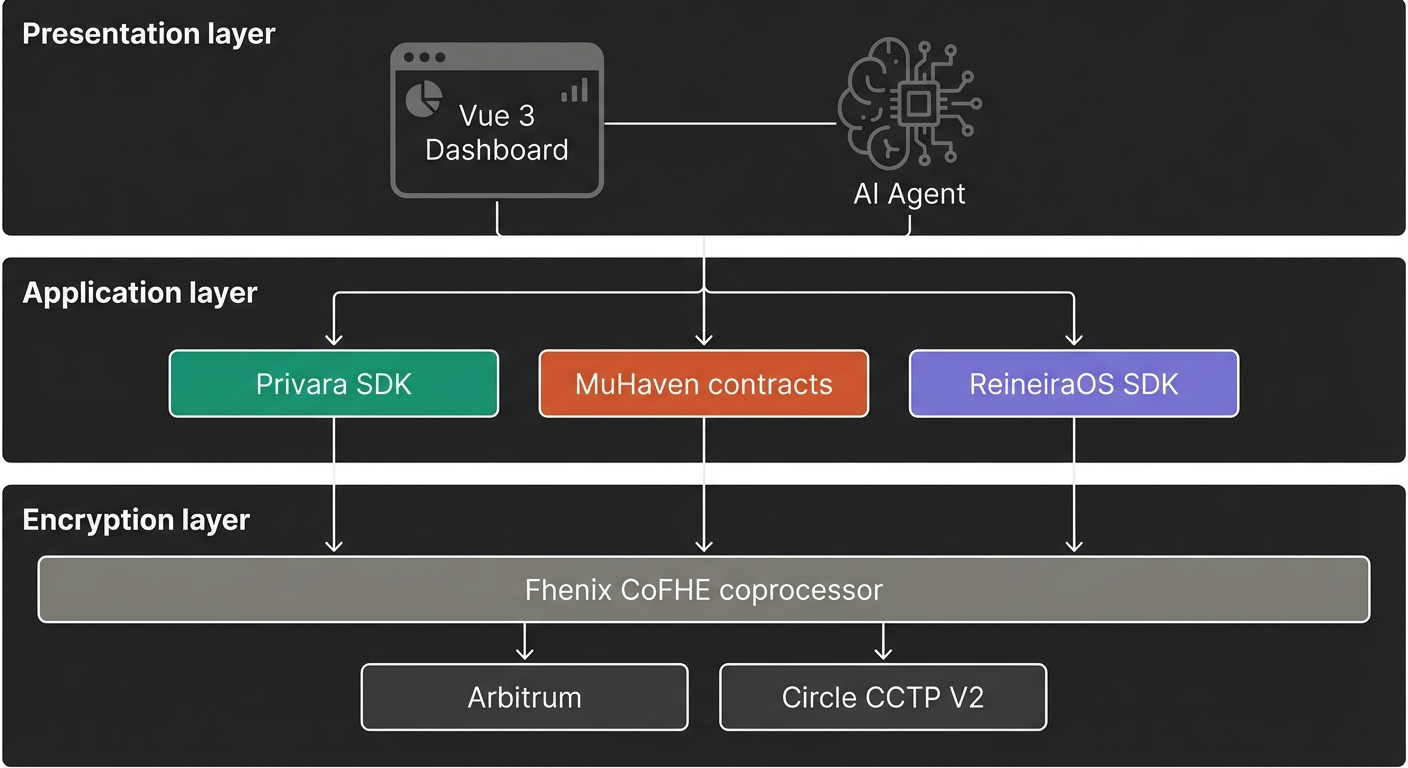
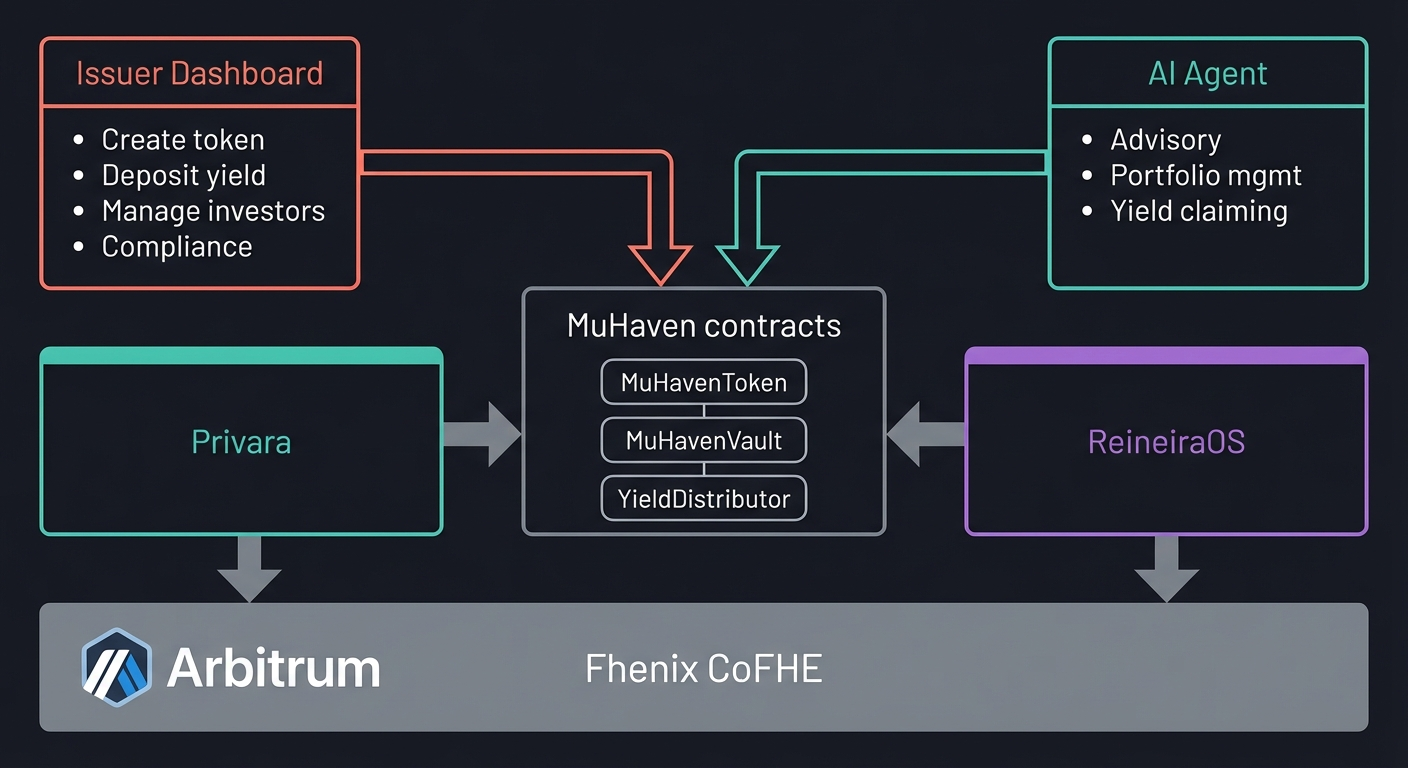
update docs

diff --git a/docs/ISSUER_MODEL.md b/docs/ISSUER_MODEL.md
@@ -32,11 +32,11 @@ External RWA token              MuHaven
        │  Investor deposits
        │  standard ERC-20
        ▼
-┌──────────────┐         ┌──────────────────┐
+┌───────────────┐         ┌──────────────────┐
 │ Lock in vault │────────>│ Mint fhERC-20    │
 │ (custodied)   │         │ (encrypted       │
 │               │         │  balance)        │
-└──────────────┘         └──────────────────┘
+└───────────────┘         └──────────────────┘
        │
        │  1:1 backing
        │  Investor can unwrap anytime
@@ -65,7 +65,7 @@ RWA Issuer                    MuHaven
        │  Creates token via
        │  issuer dashboard
        ▼
-┌──────────────────────┐
+┌───────────────────────┐
 │ Configure token:      │
 │ - Name, symbol        │
 │ - Asset class         │
@@ -73,7 +73,7 @@ RWA Issuer                    MuHaven
 │ - KYC tier required   │
 │ - Max investors       │
 │ - Jurisdiction rules  │
-└──────────┬───────────┘
+└──────────┬────────────┘
            │
            ▼
 ┌──────────────────────┐
@@ -261,18 +261,6 @@ For the hackathon, we need to demonstrate the two-sided flow end-to-end:
 | `MuHavenVault.sol` (new) | `wrap()`, `unwrap()` | Lock ERC-20, mint fhERC-20 (wrapper model) |
 | `YieldDistributor.sol` (new) | `distributeYield()` | Read all holder balances, create proportional escrows |
 
-### Wave plan impact
-
-| Wave | Addition | Hours |
-|------|---------|-------|
-| Wave 2 | Add `onlyIssuer` + `onlyMinter` modifiers, MINTER_ROLE, `mint()` to MuHavenToken | +2h |
-| Wave 2 | Create `MuHavenVault.sol` (simple wrap/unwrap) | +4h |
-| Wave 3 | Build `YieldDistributor.sol` with ReineiraOS integration | +6h |
-| Wave 3 | Build 4 issuer dashboard pages in Vue 3 | +12h |
-| Wave 5 | Include issuer flow in demo video | +1h |
-
-**Total additional: ~25 hours** — fits within Wave 3's 120h budget with some reallocation.
-
 ---
 
 ## Revenue model (for judges)
@@ -292,30 +280,30 @@ All fees are encrypted — competitors can't reverse-engineer MuHaven's revenue 
 ## How this fits the existing architecture
 
 ```
-┌──────────────────────────────────────────────────────────────┐
-│  ISSUER SIDE (new)                    INVESTOR SIDE (existing)│
+┌────────────────────────────────────────────────────────────────┐
+│  ISSUER SIDE (new)                    INVESTOR SIDE (existing) │
 │                                                                │
-│  ┌─────────────────┐                 ┌────────────────────┐  │
-│  │ Issuer Dashboard │                 │ AI Agent + Chat     │  │
-│  │ - Create token   │                 │ - Advisory          │  │
-│  │ - Deposit yield  │                 │ - Portfolio mgmt    │  │
-│  │ - Manage investors│                │ - Yield claiming    │  │
-│  └────────┬────────┘                 └─────────┬──────────┘  │
-│           │                                     │              │
-│           ▼                                     ▼              │
-│  ┌──────────────────────────────────────────────────────────┐│
-│  │                   MuHaven Contracts                       ││
-│  │                                                            ││
-│  │  MuHavenToken (fhERC-20)  ←──── shared ────→  IKYCGate  ││
-│  │  MuHavenVault (wrap/unwrap)                    YieldGate  ││
-│  │  YieldDistributor (proportional escrow creation)          ││
-│  └──────────────────────────────────────────────────────────┘│
+│  ┌───────────────────┐                 ┌────────────────────┐  │
+│  │ Issuer Dashboard  │                 │ AI Agent + Chat    │  │
+│  │ - Create token    │                 │ - Advisory         │  │
+│  │ - Deposit yield   │                 │ - Portfolio mgmt   │  │
+│  │ - Manage investors│                 │ - Yield claiming   │  │
+│  └────────┬──────────┘                 └─────────┬──────────┘  │
+│           │                                      │             │
+│           ▼                                      ▼             │
+│  ┌──────────────────────────────────────────────────────────┐  │
+│  │                   MuHaven Contracts                      │  │
+│  │                                                          │  │
+│  │  MuHavenToken (fhERC-20)  ←──── shared ────→  IKYCGate   │  │
+│  │  MuHavenVault (wrap/unwrap)                    YieldGate │  │
+│  │  YieldDistributor (proportional escrow creation)         │  │
+│  └──────────────────────────────────────────────────────────┘  │
 │                              │                                 │
 │                              ▼                                 │
-│  ┌──────────────────────────────────────────────────────────┐│
-│  │  Privara (payments) + ReineiraOS (escrow) + CoFHE (FHE)  ││
-│  └──────────────────────────────────────────────────────────┘│
-└──────────────────────────────────────────────────────────────┘
+│  ┌──────────────────────────────────────────────────────────┐  │
+│  │  Privara (payments) + ReineiraOS (escrow) + CoFHE (FHE)  │  │
+│  └──────────────────────────────────────────────────────────┘  │
+└────────────────────────────────────────────────────────────────┘
 ```
 
 The key insight: issuers and investors share the same smart contracts but interact through different interfaces. The fhERC-20 token, KYC gate, and yield gate serve both sides. The issuer dashboard and investor AI agent are just different UX layers on top of the same protocol.
@@ -336,6 +324,6 @@ The key insight: issuers and investors share the same smart contracts but intera
 
 The differentiator: on existing platforms, the issuer can see every investor's exact position. On MuHaven, the issuer can see aggregate metrics (total supply, investor count) but not individual balances. This is confidential distribution — the privacy property institutions actually want.
 
----
+<img src="./docs/images/issuer-model.jpg" alt="Issuer Model" width="850" />
 
-> **Image prompt for issuer flow**: "Create a vertical flow diagram on dark background showing the issuer journey. Top: 'RWA Issuer' (blue box) with arrow down to 'MuHaven Issuer Dashboard' (coral box) with four sub-items: 'Create token', 'Set yield', 'Deposit yield', 'Manage investors'. Arrow down to 'MuHaven Contracts' (gray wide box). Two arrows out: left arrow to 'ReineiraOS Escrow' (purple) labeled 'yield distribution', right arrow to 'Investor Agent' (teal) labeled 'auto-claim'. Bottom note: 'Issuer sees aggregates. Investor sees own position. Nobody sees others.' Clean minimal style."
+---

diff --git a/docs/ARCHITECTURE.md b/docs/ARCHITECTURE.md
@@ -81,7 +81,7 @@ The **supply side** (issuers) creates and manages RWA tokens, deposits yield, an
 └────────────────────────────────────────────────────────────────────────────────────────┘
 ```
 
-> **Image prompt**: "Create a layered architecture diagram with three horizontal tiers. Top tier labeled 'Presentation' contains three boxes: 'Issuer Dashboard' (coral fill, with sub-items: 'Token management', 'Yield distribution', 'Investor mgmt', 'Compliance'), 'Vue 3 Dashboard' (teal fill), and 'AI Agent' (teal fill). Middle tier labeled 'Application' contains five boxes: 'Privara SDK', 'MuHaven Contracts' (with sub-items: 'MuHavenToken', 'MuHavenVault', 'YieldDistributor'), 'ReineiraOS SDK'. Bottom tier labeled 'Encryption' contains one wide box: 'Fhenix CoFHE Coprocessor' with 'Arbitrum' and 'CCTP V2' below it. Arrows flow downward between tiers — both issuer and investor sides converge at the Application layer. Use a clean, minimal style with dark background and teal/coral/purple accent colors."
+<img src="./docs/images/system-layer.jpg" alt="System Layer" width="850" />
 
 ---
 
@@ -297,4 +297,4 @@ Investor Wallet (full control)
 
 ---
 
-> **Image prompt for architecture overview**: "Create a clean system architecture diagram showing a two-sided platform. LEFT: 'Issuer Dashboard' (coral accent) with sub-items: 'Create token', 'Deposit yield', 'Manage investors', 'Compliance'. RIGHT: 'AI Agent' (teal accent) with sub-items: 'Advisory', 'Portfolio mgmt', 'Yield claiming'. CENTER: Three connected platforms — MuHaven contracts (center, containing MuHavenToken, MuHavenVault, YieldDistributor), Privara (left, teal accent), and ReineiraOS (right, purple accent) — all sitting on top of a shared foundation labeled 'Fhenix CoFHE' (gray). Arrows show data flow from both issuer and investor sides down to shared contracts. Use a dark background with minimal style, no gradients. Include the Arbitrum logo on the foundation layer."
+<img src="./docs/images/architecture-overview.jpg" alt="Architecture Overview" width="850" />

diff --git a/docs/AGENT_DESIGN.md b/docs/AGENT_DESIGN.md
@@ -23,22 +23,22 @@ User says something
        │
        ▼
 ┌─────────────┐
-│  LLM thinks  │ ← "User wants low-risk investment"
+│  LLM thinks │ ← "User wants low-risk investment"
 └──────┬──────┘
        │
        ▼
 ┌─────────────┐
-│  Call tool    │ ← get_yields() → returns current rates
+│  Call tool  │ ← get_yields() → returns current rates
 └──────┬──────┘
        │
        ▼
 ┌─────────────┐
-│  LLM thinks  │ ← "Treasury at 4.8% fits their risk profile"
+│  LLM thinks │ ← "Treasury at 4.8% fits their risk profile"
 └──────┬──────┘
        │
        ▼
 ┌─────────────┐
-│  Respond     │ ← "I recommend 70% treasuries. Shall I proceed?"
+│  Respond    │ ← "I recommend 70% treasuries. Shall I proceed?"
 └──────┬──────┘
        │
        ▼
@@ -535,4 +535,4 @@ This is simple, safe, and sufficient to demonstrate the concept. The agent's max
 
 ---
 
-> **Image prompt for agent flow**: "Create a conversation flow diagram showing an investor chatting with an AI agent. Left side shows chat bubbles (user: 'I want steady income', agent: 'What's your horizon?', user: '1 year', agent: 'I recommend 70/20/10 split'). Right side shows the agent calling tools in sequence: get_yields → deposit → buy_rwa → set_risk_params. Below the tools, show encrypted transactions flowing to the blockchain (represented as blocks with lock icons). Clean minimal style, dark background, teal and coral accents."
+<img src="./docs/images/agent-flow-diagram.jpg" alt="Agent Flow Diagram" width="850" />

diff --git a/docs/COMPETITIVE_ANALYSIS.md b/docs/COMPETITIVE_ANALYSIS.md
@@ -21,6 +21,8 @@ MuHaven sits at the intersection of three markets. No existing project occupies 
       SingularityDAO ●  │        ● Securitize
 ```
 
+<img src="./docs/images/competitive-matrix.jpg" alt="Competitive Positioning" width="850" />
+
 ---
 
 ## Dimension 1: RWA privacy
@@ -167,5 +169,3 @@ Unlike privacy-focused projects that treat compliance as an afterthought, MuHave
 All of these signals converged in the 6 months before MuHaven was conceived. The timing is not coincidental — the infrastructure layer is finally mature enough to build Confidential DeFAI.
 
 ---
-
-> **Image prompt for competitive positioning**: "Create a 2x2 matrix diagram. X-axis: 'Transparent state' (left) to 'Encrypted state' (right). Y-axis: 'Manual management' (bottom) to 'AI-managed' (top). Bottom-left quadrant: standard RWA platforms (Securitize, Ondo). Bottom-right quadrant: Inco/Zama, Canton. Top-left quadrant: DeFAI agents (Virtuals, SingularityDAO). Top-right quadrant: MuHaven (highlighted, with a star). Clean minimal style, dark background."
